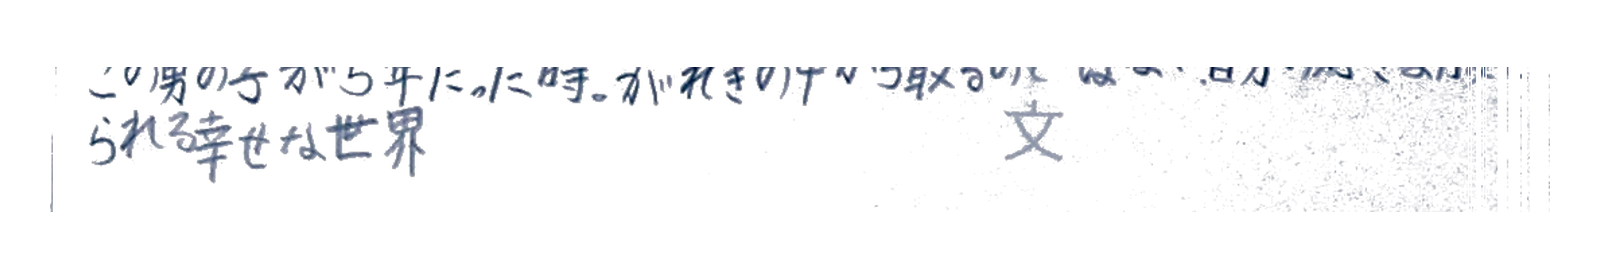
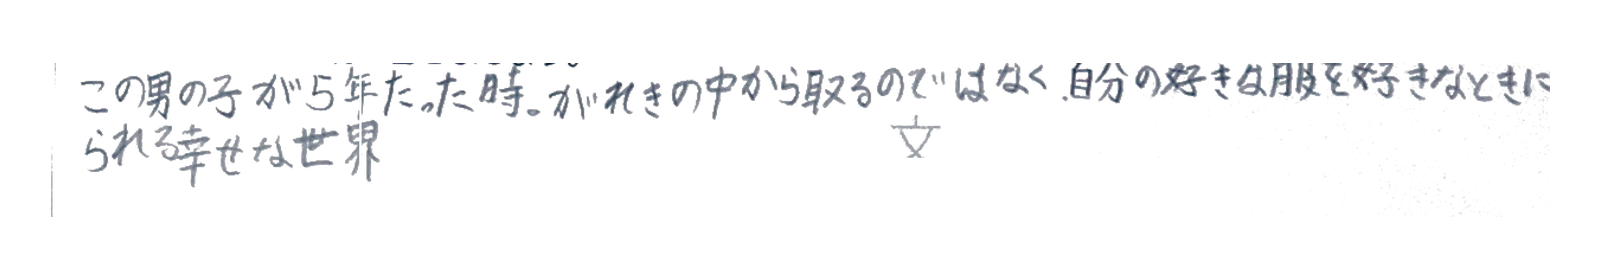
Normalize collage scale and recut handwritten notes

diff --git a/styles.css b/styles.css
@@ -172,7 +172,7 @@ button {
   top: 60px;
   left: 60px;
   width: 190px;
-  height: 210px;
+  height: 188px;
   --rotation: -2.5deg;
   --drift-x: 10px;
   --drift-y: 7px;
@@ -184,8 +184,8 @@ button {
 .fragment--two {
   top: 120px;
   left: 300px;
-  width: 120px;
-  height: 145px;
+  width: 157px;
+  height: 180px;
   --rotation: 1.6deg;
   --drift-x: 7px;
   --drift-y: 11px;
@@ -197,8 +197,8 @@ button {
 .fragment--three {
   top: 35px;
   left: 560px;
-  width: 205px;
-  height: 205px;
+  width: 180px;
+  height: 188px;
   --rotation: -1deg;
   --drift-x: 12px;
   --drift-y: 6px;
@@ -210,8 +210,8 @@ button {
 .fragment--four {
   top: 100px;
   left: 980px;
-  width: 175px;
-  height: 175px;
+  width: 190px;
+  height: 182px;
   --rotation: 1.4deg;
   --drift-x: 8px;
   --drift-y: 12px;
@@ -223,8 +223,8 @@ button {
 .fragment--five {
   top: 330px;
   left: 20px;
-  width: 250px;
-  height: 235px;
+  width: 190px;
+  height: 179px;
   --rotation: -1.8deg;
   --drift-x: 13px;
   --drift-y: 8px;
@@ -236,8 +236,8 @@ button {
 .fragment--six {
   top: 430px;
   left: 470px;
-  width: 220px;
-  height: 220px;
+  width: 190px;
+  height: 188px;
   --rotation: 1.2deg;
   --drift-x: 9px;
   --drift-y: 10px;
@@ -249,8 +249,8 @@ button {
 .fragment--seven {
   top: 270px;
   left: 780px;
-  width: 170px;
-  height: 200px;
+  width: 155px;
+  height: 180px;
   --rotation: -1.2deg;
   --drift-x: 11px;
   --drift-y: 7px;
@@ -262,8 +262,8 @@ button {
 .fragment--eight {
   top: 480px;
   left: 1060px;
-  width: 170px;
-  height: 185px;
+  width: 180px;
+  height: 184px;
   --rotation: 1.8deg;
   --drift-x: 8px;
   --drift-y: 13px;
@@ -275,8 +275,8 @@ button {
 .fragment--nine {
   top: 520px;
   left: 300px;
-  width: 135px;
-  height: 165px;
+  width: 190px;
+  height: 188px;
   --rotation: -2.2deg;
   --drift-x: 12px;
   --drift-y: 9px;
@@ -285,19 +285,19 @@ button {
   --float-delay: -2.1s;
 }
 
-.fragment--ten { top: 55px; left: 1335px; width: 170px; height: 205px; --rotation: -1deg; --float-duration: 10.4s; --float-delay: -2s; }
-.fragment--eleven { top: 390px; left: 1330px; width: 185px; height: 210px; --rotation: 1.4deg; --float-duration: 9s; --float-delay: -4s; }
-.fragment--twelve { top: 70px; left: 1635px; width: 175px; height: 210px; --rotation: -1.8deg; --float-duration: 11s; --float-delay: -6s; }
-.fragment--thirteen { top: 385px; left: 1640px; width: 165px; height: 215px; --rotation: 1deg; --float-duration: 8.6s; --float-delay: -1s; }
-.fragment--fourteen { top: 60px; left: 1940px; width: 165px; height: 210px; --rotation: 1deg; --float-duration: 9.8s; --float-delay: -5s; }
-.fragment--fifteen { top: 410px; left: 1915px; width: 225px; height: 155px; --rotation: -1.4deg; --float-duration: 10.8s; --float-delay: -3s; }
-.fragment--sixteen { top: 65px; left: 2240px; width: 165px; height: 210px; --rotation: 1.8deg; --float-duration: 8.8s; --float-delay: -7s; }
-.fragment--seventeen { top: 390px; left: 2240px; width: 165px; height: 210px; --rotation: -0.8deg; --float-duration: 11.2s; --float-delay: -2.5s; }
-.fragment--eighteen { top: 55px; left: 2525px; width: 185px; height: 215px; --rotation: -1.2deg; --float-duration: 9.3s; --float-delay: -4.5s; }
-.fragment--nineteen { top: 385px; left: 2535px; width: 175px; height: 220px; --rotation: 1.5deg; --float-duration: 10.2s; --float-delay: -1.8s; }
-.fragment--twenty { top: 75px; left: 2815px; width: 240px; height: 165px; --rotation: -0.7deg; --float-duration: 9.6s; --float-delay: -5.5s; }
-.fragment--twentyone { top: 390px; left: 2850px; width: 170px; height: 215px; --rotation: 1.2deg; --float-duration: 10.6s; --float-delay: -3.2s; }
-.fragment--twentytwo { top: 65px; left: 3160px; width: 165px; height: 210px; --rotation: -1.5deg; --float-duration: 9.1s; --float-delay: -6.5s; }
+.fragment--ten { top: 60px; left: 1375px; width: 80px; height: 180px; --rotation: -1deg; --float-duration: 10.4s; --float-delay: -2s; }
+.fragment--eleven { top: 400px; left: 1345px; width: 138px; height: 180px; --rotation: 1.4deg; --float-duration: 9s; --float-delay: -4s; }
+.fragment--twelve { top: 65px; left: 1670px; width: 98px; height: 180px; --rotation: -1.8deg; --float-duration: 11s; --float-delay: -6s; }
+.fragment--thirteen { top: 395px; left: 1675px; width: 93px; height: 180px; --rotation: 1deg; --float-duration: 8.6s; --float-delay: -1s; }
+.fragment--fourteen { top: 60px; left: 1980px; width: 67px; height: 180px; --rotation: 1deg; --float-duration: 9.8s; --float-delay: -5s; }
+.fragment--fifteen { top: 425px; left: 1915px; width: 200px; height: 108px; --rotation: -1.4deg; --float-duration: 10.8s; --float-delay: -3s; }
+.fragment--sixteen { top: 60px; left: 2275px; width: 71px; height: 180px; --rotation: 1.8deg; --float-duration: 8.8s; --float-delay: -7s; }
+.fragment--seventeen { top: 395px; left: 2275px; width: 69px; height: 180px; --rotation: -0.8deg; --float-duration: 11.2s; --float-delay: -2.5s; }
+.fragment--eighteen { top: 55px; left: 2570px; width: 90px; height: 180px; --rotation: -1.2deg; --float-duration: 9.3s; --float-delay: -4.5s; }
+.fragment--nineteen { top: 395px; left: 2560px; width: 112px; height: 180px; --rotation: 1.5deg; --float-duration: 10.2s; --float-delay: -1.8s; }
+.fragment--twenty { top: 95px; left: 2815px; width: 200px; height: 105px; --rotation: -0.7deg; --float-duration: 9.6s; --float-delay: -5.5s; }
+.fragment--twentyone { top: 395px; left: 2860px; width: 110px; height: 180px; --rotation: 1.2deg; --float-duration: 10.6s; --float-delay: -3.2s; }
+.fragment--twentytwo { top: 60px; left: 3200px; width: 80px; height: 180px; --rotation: -1.5deg; --float-duration: 9.1s; --float-delay: -6.5s; }
 
 ::view-transition-group(selected-work) {
   animation-duration: 720ms;
@@ -347,7 +347,7 @@ button {
 
 .detail__content {
   display: grid;
-  grid-template-rows: auto minmax(0, 1fr) clamp(6.5rem, 16svh, 9rem);
+  grid-template-rows: auto minmax(0, 1fr) clamp(7.5rem, 18svh, 10rem);
   width: min(84vw, 68rem);
   height: min(88svh, 54rem);
   min-height: 0;

diff --git a/script.js b/script.js
@@ -78,9 +78,9 @@ const works = [
     ["すてきな学校にする", "14-43-10.0.jpg", "みんなで協力して、すてきな学校をつくること。"],
   ].map(([title, file, noteAlt]) => ({
     title,
-    artwork: `assets/day2-art-v2/${file.replace(/\.(jpg|png)$/i, ".jpg")}?v=2`,
+    artwork: `assets/day2-art-v2/${file.replace(/\.(jpg|png)$/i, ".jpg")}?v=3`,
     artworkAlt: `${title}を描いた作品`,
-    note: `assets/day2-notes-v2/${file.replace(/\.(jpg|png)$/i, ".png")}?v=2`,
+    note: `assets/day2-notes-v2/${file.replace(/\.(jpg|png)$/i, ".png")}?v=3`,
     noteAlt,
   })),
 ];

diff --git a/index.html b/index.html
@@ -5,8 +5,8 @@
     <meta name="viewport" content="width=device-width, initial-scale=1" />
     <meta name="description" content="作品の中の小さな要素から、それぞれの平和をひらく。" />
     <title>平和とは — 無限の画布</title>
-    <link rel="stylesheet" href="styles.css?v=20261128-16" />
-    <script src="script.js?v=20261128-17" defer></script>
+    <link rel="stylesheet" href="styles.css?v=20261128-18" />
+    <script src="script.js?v=20261128-18" defer></script>
   </head>
   <body>
     <main
